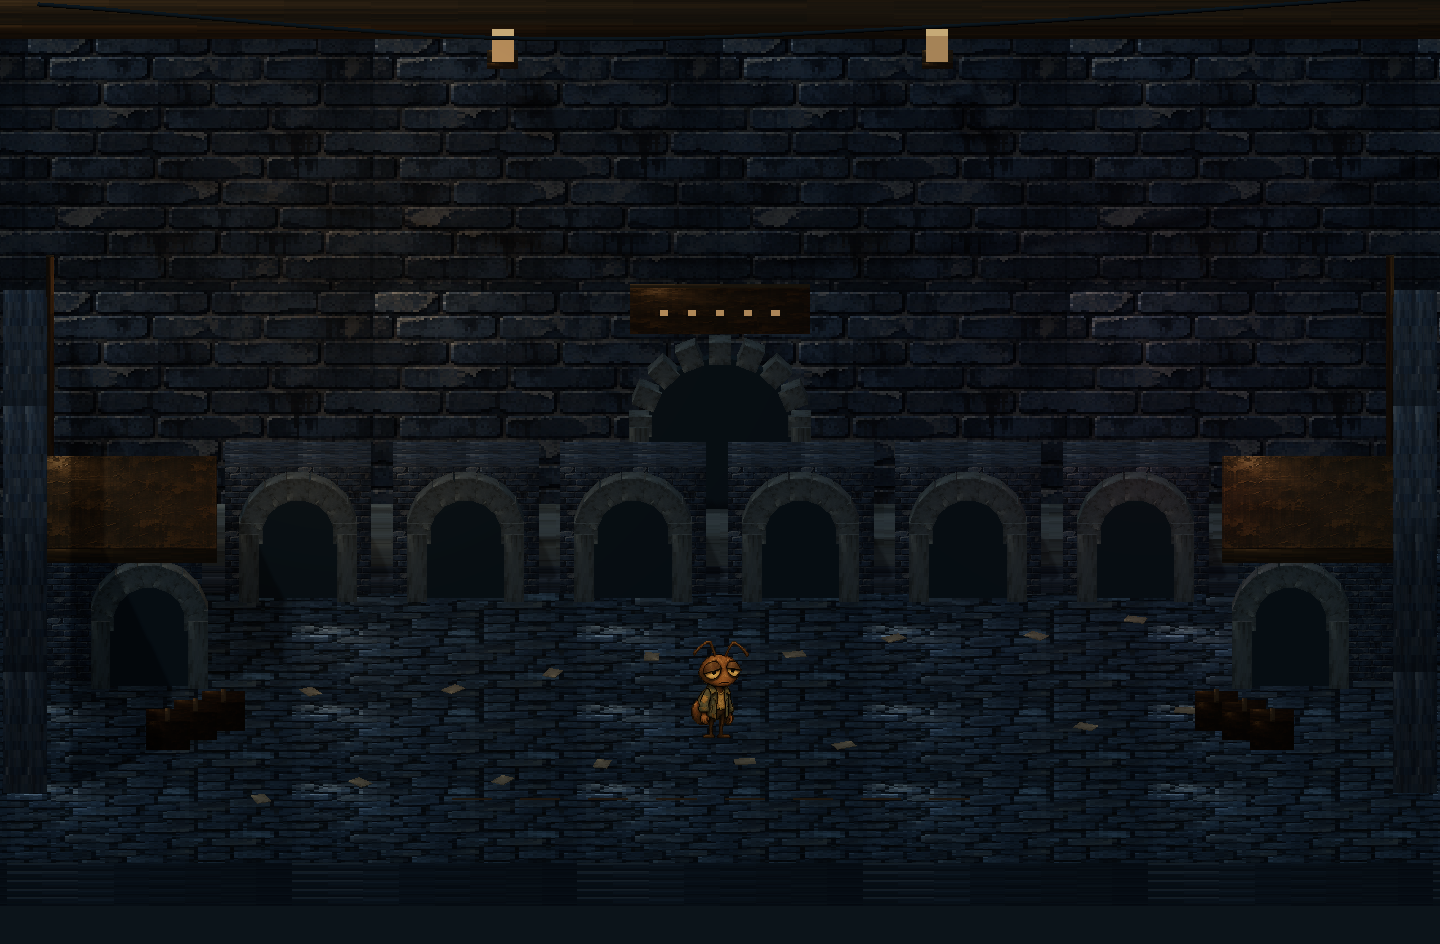
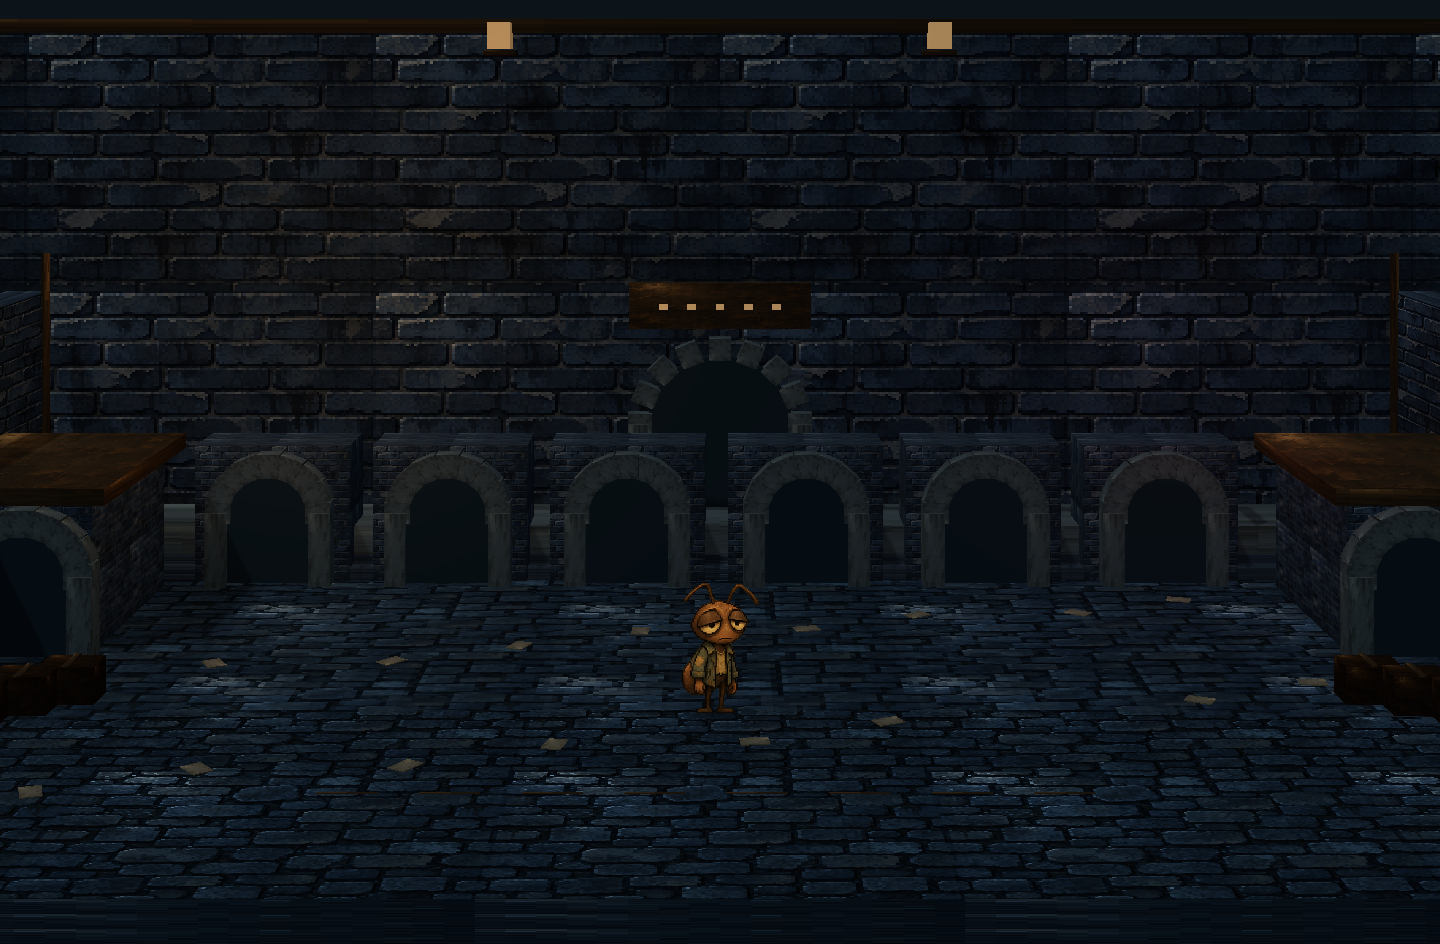
feat: perspective camera that turns toward the visitor ant
Replace the frontal orthographic camera with a perspective one so the
room reads as 3D: the floor recedes and nearer ants are larger.

- The view axis is level and the frustum is shifted down (lens shift),
  so at rest the wall plane maps exactly as before: panels keep the same
  rectangles and the Pierrot portrait stays 3:2.
- The camera orbits the wall centre by up to 7 degrees (4 in the zoomed
  portrait section) to look toward the visitor's x position, eased.
- Panel buttons use the bounding box of the projected corners while the
  camera is turned.
- Walkable floor depth is derived from the perspective frame and now
  applies to every scene.
- Static fallback PNGs regenerated.

diff --git a/components/world/hd2d-renderer.ts b/components/world/hd2d-renderer.ts
@@ -3,12 +3,12 @@ import { mergeGeometries } from "three/addons/utils/BufferGeometryUtils.js";
 import type { WorldFrame, WorldScene, WorldSide, WorldSummary } from "@/lib/world";
 import { crowdDistribution } from "@/lib/world-presentation";
 import { findWorldPath, walkable, worldObstacles, type Point } from "@/lib/world-navigation";
-import { WALL_CAMERA_DISTANCE, WALL_COS, WALL_PANELS, WALL_PANEL_IDS, WALL_PANEL_Z, WALL_SIN, projectPanel, wallBodyPx, wallFit, type WallFit, type WallModel, type WallPanelId, type WallRect, type WallTextPanelId, type WallView } from "@/lib/world-wall";
+import { WALL_COS, WALL_PANELS, WALL_PANEL_IDS, WALL_PANEL_Z, WALL_SHORT_STAGE, wallBodyPx, wallFit, wallScreenY, type WallFit, type WallModel, type WallPanelId, type WallRect, type WallTextPanelId, type WallView } from "@/lib/world-wall";
 import { paintWallPanel, type WallPaintStyle } from "./wall-painter";
 import antAtlas from "./ant-atlas.json";
 
 export type RenderState = { frame: WorldFrame; scene: WorldScene; stock: string; mobile: boolean; color: string; paused: boolean };
-export type WallMetrics = { rects: Record<WallPanelId, WallRect>; drawn: Partial<Record<WallPanelId, string>>; body: number; ppu: number; section: number; overview: boolean; settled: boolean; front: number };
+export type WallMetrics = { rects: Record<WallPanelId, WallRect>; drawn: Partial<Record<WallPanelId, string>>; body: number; ppu: number; section: number; overview: boolean; settled: boolean; front: number; yaw: number };
 export type RenderMetrics = { renders: number; frames: number[]; cpu: number[]; gpu: number[]; calls: number; triangles: number; renderer: string; population: number; wall: WallMetrics | null };
 export type WorldRenderer = {
   update: (state: RenderState) => void;
@@ -41,8 +41,10 @@ export async function createWorldRenderer(canvas: HTMLCanvasElement, initial: Re
   renderer.shadowMap.autoUpdate = false;
   const scene = new THREE.Scene();
   scene.fog = new THREE.Fog(0x101b23, 34, 68);
-  const camera = new THREE.OrthographicCamera(-15, 15, 10, -10, .1, 100);
-  camera.position.set(0, WALL_CAMERA_DISTANCE * WALL_SIN, WALL_CAMERA_DISTANCE * WALL_COS); camera.lookAt(0, 0, 0);
+  // Perspective camera with a level axis and a shifted frustum (lens shift): at rest the wall plane
+  // maps exactly like the old orthographic frame, so panels stay rectangles, while depth gets real
+  // perspective. The camera orbits the wall around the vertical axis to keep looking toward the visitor.
+  const camera = new THREE.PerspectiveCamera();
   const hemi = new THREE.HemisphereLight(0x9ebbd0, 0x3a2c21, 2.2); scene.add(hemi);
   const sun = new THREE.DirectionalLight(0xb8c6d0, 2.5); sun.position.set(-8, 18, 8); sun.castShadow = true;
   sun.shadow.mapSize.set(1024, 1024); sun.shadow.camera.left = -16; sun.shadow.camera.right = 16; sun.shadow.camera.top = 16; sun.shadow.camera.bottom = -14; sun.shadow.bias = -.002;
@@ -195,7 +197,9 @@ export async function createWorldRenderer(canvas: HTMLCanvasElement, initial: Re
   const position: Point = initial.scene === "plaza" ? { x: 0, z: .4 } : { x: 0, z: 3.2 };
   let path: Point[] = [], sideList: WorldSide[] = [], lastTime = 0, lastRender = 0, disposed = false;
   let width = 0, height = 0, direction = 0;
-  const cameraUp = new THREE.Vector3(0, WALL_COS, -WALL_SIN);
+  const CAMERA_DISTANCE = 32, CAMERA_HEIGHT = 8.4, WALL_Y0 = wallScreenY(0, WALL_PANEL_Z);
+  let yaw = 0, front = 7;
+  const corner = new THREE.Vector3();
   let view: WallView = { layout: "wide", section: 1, overview: false, hudBottom: 0 };
   let fit: WallFit = wallFit(1200, 680, { plaza: state.scene === "plaza", ...view });
   // Eased camera frame; `fit` is the target.
@@ -212,15 +216,40 @@ export async function createWorldRenderer(canvas: HTMLCanvasElement, initial: Re
     sideList = (["bullish", "bearish", "neutral"] as const).flatMap((side) => Array.from({ length: counts[side] }, () => side));
     ants.count = shadows.count = sideList.length + 1; metrics.population = ants.count;
   }
+  const zoomed = () => state.scene === "plaza" && view.layout === "sectioned" && !view.overview;
+  // Gaze follows the visitor: the camera swings to the far side and looks toward the ant.
+  const yawTarget = () => {
+    const close = zoomed(), reach = close ? 4 : 10, max = (close ? 4 : 7) * Math.PI / 180;
+    return Math.max(-1, Math.min(1, (fit.cx - position.x) / reach)) * max || 0;
+  };
+  /** Deepest floor z the frame shows above the bottom HUD (camera at rest). */
+  function visibleFront() {
+    const hud = height < WALL_SHORT_STAGE ? 0 : Math.max(0, view.hudBottom);
+    const y = (fit.bottom + hud / fit.ppu - WALL_Y0) / WALL_COS; // height on the wall plane at the frame's lower edge
+    const depth = y >= 0 ? 0 : -y * CAMERA_DISTANCE / (CAMERA_HEIGHT - y);
+    return Math.max(state.scene === "plaza" ? .8 : 4, Math.min(7, WALL_PANEL_Z + depth));
+  }
   function applyCamera() {
-    camera.left = -lens.halfW; camera.right = lens.halfW; camera.top = lens.top; camera.bottom = lens.bottom;
-    camera.position.set(lens.cx, WALL_CAMERA_DISTANCE * WALL_SIN, WALL_CAMERA_DISTANCE * WALL_COS); camera.lookAt(lens.cx, 0, 0);
-    camera.updateProjectionMatrix(); camera.updateMatrixWorld();
+    // Frame window on the wall plane, as seen from the camera's own height. Vertical is scaled by
+    // WALL_COS like the former tilted view, so wallFit / projectPanel still describe the rest pose.
+    const near = .5, k = near / CAMERA_DISTANCE;
+    camera.projectionMatrix.makePerspective(-lens.halfW * k, lens.halfW * k,
+      ((lens.top - WALL_Y0) / WALL_COS - CAMERA_HEIGHT) * k, ((lens.bottom - WALL_Y0) / WALL_COS - CAMERA_HEIGHT) * k, near, 140);
+    camera.projectionMatrixInverse.copy(camera.projectionMatrix).invert();
+    camera.position.set(lens.cx + CAMERA_DISTANCE * Math.sin(yaw), CAMERA_HEIGHT, WALL_PANEL_Z + CAMERA_DISTANCE * Math.cos(yaw));
+    camera.rotation.set(0, yaw, 0); camera.updateMatrixWorld();
     const plaza = state.scene === "plaza";
-    const current = { ...fit, ...lens, ppu: width / (2 * lens.halfW) };
-    const rects = Object.fromEntries(WALL_PANEL_IDS.map((id) => [id, projectPanel(id, current)])) as Record<WallPanelId, WallRect>;
+    // Screen bounds of each panel's four corners: exact rectangles at rest, bounding boxes while turned.
+    const rects = Object.fromEntries(WALL_PANEL_IDS.map((id) => {
+      const p = WALL_PANELS[id]; let x0 = Infinity, y0 = Infinity, x1 = -Infinity, y1 = -Infinity;
+      for (const sx of [-1, 1]) for (const sy of [-1, 1]) {
+        const q = project(corner.set(p.x + sx * p.w / 2, p.y + sy * p.h / 2, WALL_PANEL_Z));
+        x0 = Math.min(x0, q.x); x1 = Math.max(x1, q.x); y0 = Math.min(y0, q.y); y1 = Math.max(y1, q.y);
+      }
+      return [id, { x: x0, y: y0, width: x1 - x0, height: y1 - y0 }];
+    })) as Record<WallPanelId, WallRect>;
     const settled = lens.cx === fit.cx && lens.halfW === fit.halfW && lens.top === fit.top;
-    metrics.wall = plaza ? { rects, drawn, body: metrics.wall?.body ?? 0, ppu: current.ppu, section: view.section, overview: view.overview, settled, front: fit.front } : null;
+    metrics.wall = plaza ? { rects, drawn, body: metrics.wall?.body ?? 0, ppu: width / (2 * lens.halfW), section: view.section, overview: view.overview, settled, front, yaw } : null;
     const key = plaza ? WALL_PANEL_IDS.map((id) => `${rects[id].x.toFixed(1)},${rects[id].y.toFixed(1)},${rects[id].width.toFixed(1)}`).join("|") : "";
     if (key !== rectKey) { rectKey = key; events.panels?.(plaza ? rects : null); }
   }
@@ -238,9 +267,10 @@ export async function createWorldRenderer(canvas: HTMLCanvasElement, initial: Re
     if (!viewDirty) return;
     viewDirty = false; wallDirty = true;
     fit = wallFit(w, h, { plaza: state.scene === "plaza", ...view });
-    if (snap) { snap = false; Object.assign(lens, { cx: fit.cx, top: fit.top, bottom: fit.bottom, halfW: fit.halfW }); }
+    front = visibleFront();
     // Keep the visitor on the floor the new frame still shows.
-    if (state.scene === "plaza" && position.z > fit.front - .35) { position.z = fit.front - .35; path = []; }
+    if (position.z > front - .35) { position.z = front - .35; path = []; }
+    if (snap) { snap = false; Object.assign(lens, { cx: fit.cx, top: fit.top, bottom: fit.bottom, halfW: fit.halfW }); yaw = yawTarget(); }
     applyCamera();
   }
   function paintWall() {
@@ -297,6 +327,12 @@ export async function createWorldRenderer(canvas: HTMLCanvasElement, initial: Re
       if (distance < dt * 3) { position.x = target.x; position.z = target.z; path.shift(); }
       else { position.x += dx / distance * dt * 3; position.z += dz / distance * dt * 3; }
     }
+    const turn = yawTarget();
+    if (yaw !== turn) {
+      yaw += (turn - yaw) * (state.paused ? 1 : 1 - Math.exp(-dt * 3));
+      if (Math.abs(turn - yaw) < 1e-4) yaw = turn;
+      applyCamera();
+    }
     const sum = summary();
     amber.intensity = sum.total < 3 ? 32 : 30 + (sum.hope_ratio ?? 0) * 34;
     warning.intensity = sum.total < 3 ? 12 : 12 + (sum.fear_ratio ?? 0) * 35;
@@ -327,7 +363,9 @@ export async function createWorldRenderer(canvas: HTMLCanvasElement, initial: Re
       offsets[i * 4] = rect[0] / antAtlas.width; offsets[i * 4 + 1] = 1 - (rect[1] + rect[3]) / antAtlas.height;
       offsets[i * 4 + 2] = rect[2] / antAtlas.width; offsets[i * 4 + 3] = rect[3] / antAtlas.height;
       const scale = (visitor ? 1.12 : .9 + i % 3 * .06) * 1.45 / 235;
-      dummy.position.set(x, shift, z).addScaledVector(cameraUp, rect[3] * scale / 2); dummy.quaternion.copy(camera.quaternion); dummy.scale.set(rect[2] * scale, rect[3] * scale, 1); dummy.updateMatrix(); ants.setMatrixAt(i, dummy.matrix);
+      // The frame squeezes heights by WALL_COS; sprites are stretched back so they keep their proportions.
+      const tall = rect[3] * scale / WALL_COS;
+      dummy.position.set(x, shift + tall / 2, z); dummy.quaternion.copy(camera.quaternion); dummy.scale.set(rect[2] * scale, tall, 1); dummy.updateMatrix(); ants.setMatrixAt(i, dummy.matrix);
       ants.setColorAt(i, color.set(visitor ? state.color : "#ffffff"));
       dummy.position.set(x, .025, z); dummy.rotation.set(-Math.PI / 2, 0, 0); dummy.scale.set(1, .55, 1); dummy.updateMatrix(); shadows.setMatrixAt(i, dummy.matrix);
     }
@@ -357,8 +395,8 @@ export async function createWorldRenderer(canvas: HTMLCanvasElement, initial: Re
     if (Math.hypot(target.x - position.x, target.z - position.z) < 1e-3) return; // Already there after clamping.
     path = findWorldPath(position, target, worldObstacles(state.scene)); if (path.length) events.step?.();
   }
-  // The plaza floor is only walkable where the framed view shows it.
-  const limitZ = (z: number) => state.scene === "plaza" ? Math.min(z, fit.front - .35) : z;
+  // The floor is only walkable where the framed view shows it.
+  const limitZ = (z: number) => Math.min(z, front - .35);
   function update(next: RenderState) {
     const changed = state.scene !== next.scene; state = next;
     if (changed) {

diff --git a/tests/world-hd2d.spec.ts b/tests/world-hd2d.spec.ts
@@ -95,3 +95,21 @@ test("portrait zooms one wall section; arrows pan the camera and overview shows 
   await page.getByRole("button", { name: "확대", exact: true }).click();
   await expect.poll(async () => (await wallMetrics(page)).settled && await inside("market")).toBe(false);
 });
+
+test("perspective camera turns toward the visitor and keeps every panel on screen", async ({ page }) => {
+  await page.setViewportSize({ width: 1440, height: 900 });
+  await prepareWorld(page); await page.goto("/"); await requireWebGL2(page);
+  await expect(page.locator(".hd2d-stage")).toHaveAttribute("data-renderer", "webgl", { timeout: 45_000 });
+  await expect.poll(async () => (await wallMetrics(page)).yaw).toBe(0); // Visitor starts in the middle: frontal view.
+  const rest = await wallMetrics(page), box = (await page.locator("canvas").boundingBox())!;
+  await page.mouse.click(box.x + 150, box.y + box.height - 150); // Walk to the left side of the floor.
+  await expect.poll(async () => (await wallMetrics(page)).yaw, { timeout: 15_000 }).toBeGreaterThan(.05);
+  const turned = await wallMetrics(page);
+  // The camera swings right to look left: the right panel comes closer, the left one recedes.
+  expect(turned.rects.feed.height).toBeGreaterThan(rest.rects.feed.height);
+  expect(turned.rects.market.height).toBeLessThan(rest.rects.market.height);
+  for (const r of Object.values(turned.rects)) { expect(r.x).toBeGreaterThan(0); expect(r.x + r.width).toBeLessThan(box.width); expect(r.y).toBeGreaterThan(0); }
+  // Panel buttons follow the turned wall.
+  const r = turned.rects.feed; await page.mouse.click(box.x + r.x + r.width / 2, box.y + r.y + r.height / 2);
+  await expect(page.getByRole("tab", { name: "피드", exact: true })).toHaveAttribute("aria-selected", "true");
+});

diff --git a/lib/world-wall.ts b/lib/world-wall.ts
@@ -7,8 +7,11 @@ import { pickDisplayTitle } from "./clean-filter";
 import { stockPierrotArt } from "./stock-pierrot";
 import { worldSummary, type WorldFrame, type WorldSummary } from "./world";
 
-// Frontal orthographic camera: no yaw, fixed 22° elevation. Wall x maps 1:1 to
-// screen x and wall y is only foreshortened by cos, so wall panels stay rectangles.
+// Rest pose of the wall frame. It was designed for a frontal orthographic camera at 22° elevation:
+// wall x maps 1:1 to screen x and wall y is scaled by cos, so wall panels are rectangles. The renderer
+// now uses a perspective camera whose shifted frustum reproduces exactly this mapping on the wall
+// plane (and turns toward the visitor), so these functions describe the un-turned view; the visible
+// floor depth (`front`) is recomputed by the renderer for perspective.
 export const WALL_SIN = Math.sin(22 * Math.PI / 180);
 export const WALL_COS = Math.cos(22 * Math.PI / 180);
 export const WALL_CAMERA_DISTANCE = 28;

diff --git a/docs/ant-world-hd2d-art.md b/docs/ant-world-hd2d-art.md
@@ -20,7 +20,7 @@
 ## 렌더 규칙
 
 - Three.js는 클라이언트 동적 import. Next.js·React 18과 `WorldFrame v1` 유지. 삐에로는 기존 밈 원본을 광장에서는 벽 초상화 텍스처로, 다른 장면에서는 HTML 액자로 표시하며 지수 단계·테마에 맞춰 교체한다. 바닥·벽·캐릭터 atlas는 모든 장면에서 공유한다.
-- 고정 정면 orthographic 카메라(yaw 0, 앙각 22°). 화면 맞춤은 `lib/world-wall.ts`의 `wallFit`이 벽·HUD·화면 비율로 계산한다. 가로 화면은 벽 전체, 세로 화면은 벽 한 구역을 확대하고 화살표로 시점을 옮기며 전체보기로 축소한다.
+- 정면 perspective 카메라. 시선축은 수평(높이 8.4, 벽에서 32)이고 frustum을 아래로 민 lens shift라서, 정지 상태에서는 벽면이 예전 orthographic(앙각 22°) 구도와 똑같이 직사각형으로 찍히고 바닥·소품에만 원근이 생긴다. 카메라는 내 개미의 x 위치에 따라 벽 중심을 축으로 최대 7°(세로 구역 확대는 4°) 돌아 개미 쪽을 바라본다. 돌아간 동안 벽면 판 버튼은 네 꼭짓점 투영의 바운딩 박스를 쓴다. 화면 맞춤은 `lib/world-wall.ts`의 `wallFit`이 벽·HUD·화면 비율로 계산한다. 가로 화면은 벽 전체, 세로 화면은 벽 한 구역을 확대하고 화살표로 시점을 옮기며 전체보기로 축소한다.
 - 재질 atlas를 각 128px texture로 샘플링. 확대는 nearest, 바닥 축소에는 nearest mipmap. 숫자·한글은 HTML.
 - 개미는 카메라 방향 plane의 instancing. 프레임별 alpha 경계를 atlas metadata로 보정하고 동일 픽셀 밀도를 사용한다. 공포 자세는 짐·처진 더듬이, 희망 자세는 작은 주먹·황색 스카프.
 - 아바타 포함 최대 데스크톱 48 / 모바일 24. 분석 글이 적으면 해당 표본 수만 표현한다. largest remainder 배분으로 희망·공포·중립 건수 비율을 유지한다.

diff --git a/docs/world-wall-webgl-verification.md b/docs/world-wall-webgl-verification.md
@@ -4,6 +4,7 @@
 
 ## 바뀐 것
 
+- (추가) 이후 카메라를 perspective + 개미 추적 회전으로 바꿨다. 아래 실측 값은 개미가 중앙에 있는 정지 구도 기준이며 그때의 판 위치·크기는 동일하다. 자세한 내용은 `docs/ant-world-hd2d-art.md`.
 - 카메라: 사선에서 정면(yaw 0, 앙각 22°) orthographic으로 변경. 벽 x가 화면 x에 1:1로 대응해 벽면 판이 기울지 않는다. 화면 맞춤은 순수 함수 `wallFit`(`lib/world-wall.ts`)이 계산한다.
 - 벽: 평평한 한 장, 높이 9. 중앙 아치·간판·셔터를 광장에서 제거하고 그 자리에 판 5개를 건다. 왼쪽 시장 지수 + 곡소리방, 중앙 삐에로 초상화 + 곡소리 지수, 오른쪽 곡소리 피드.
 - 판 내용은 `CanvasTexture`로 그린다(`components/world/wall-painter.ts`). 삐에로는 원본 300×200 WebP를 그대로 텍스처로 쓰며 화면에서 정확히 3:2다. 크롭·재작화 없음.
